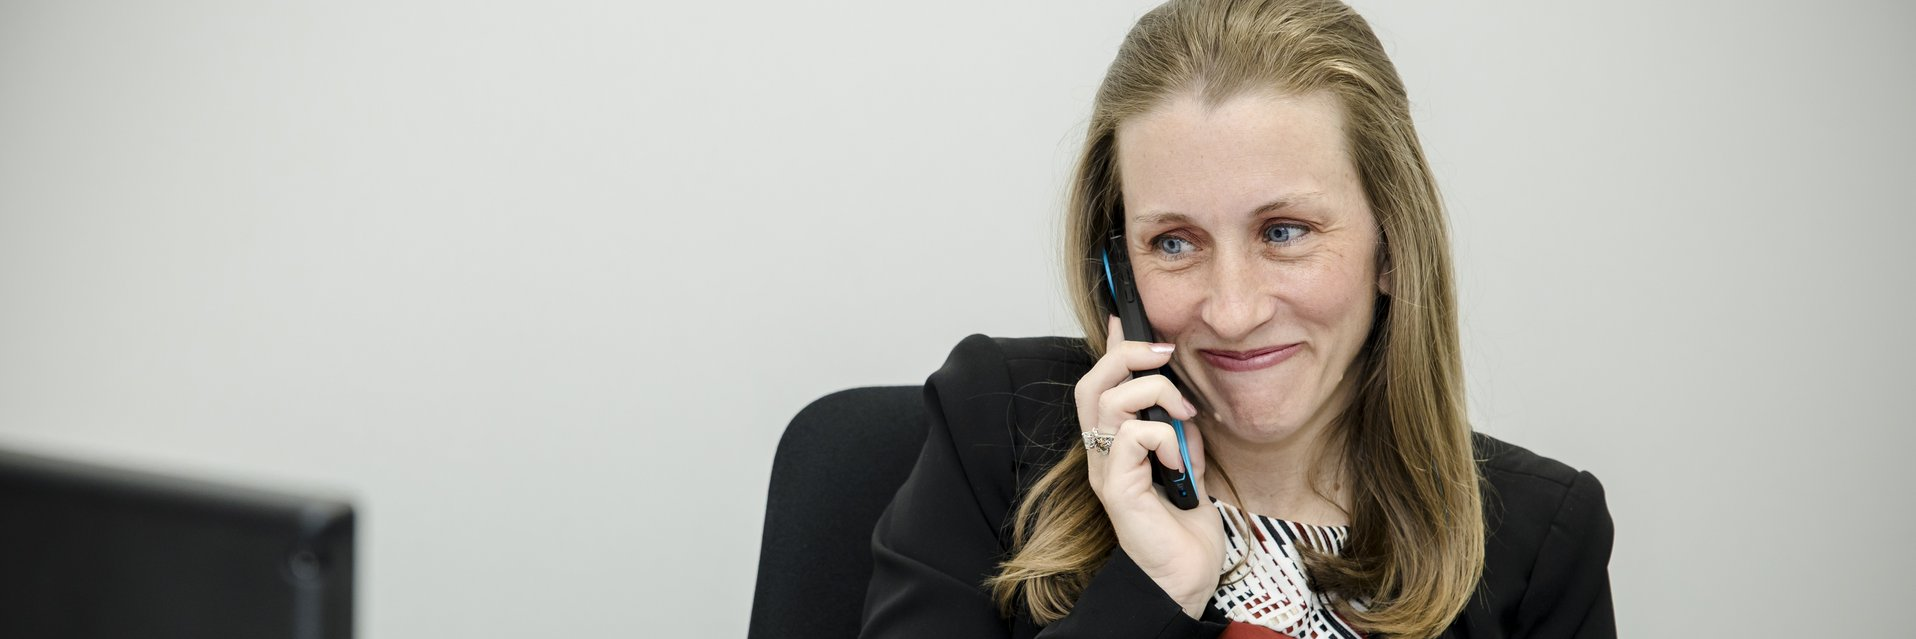
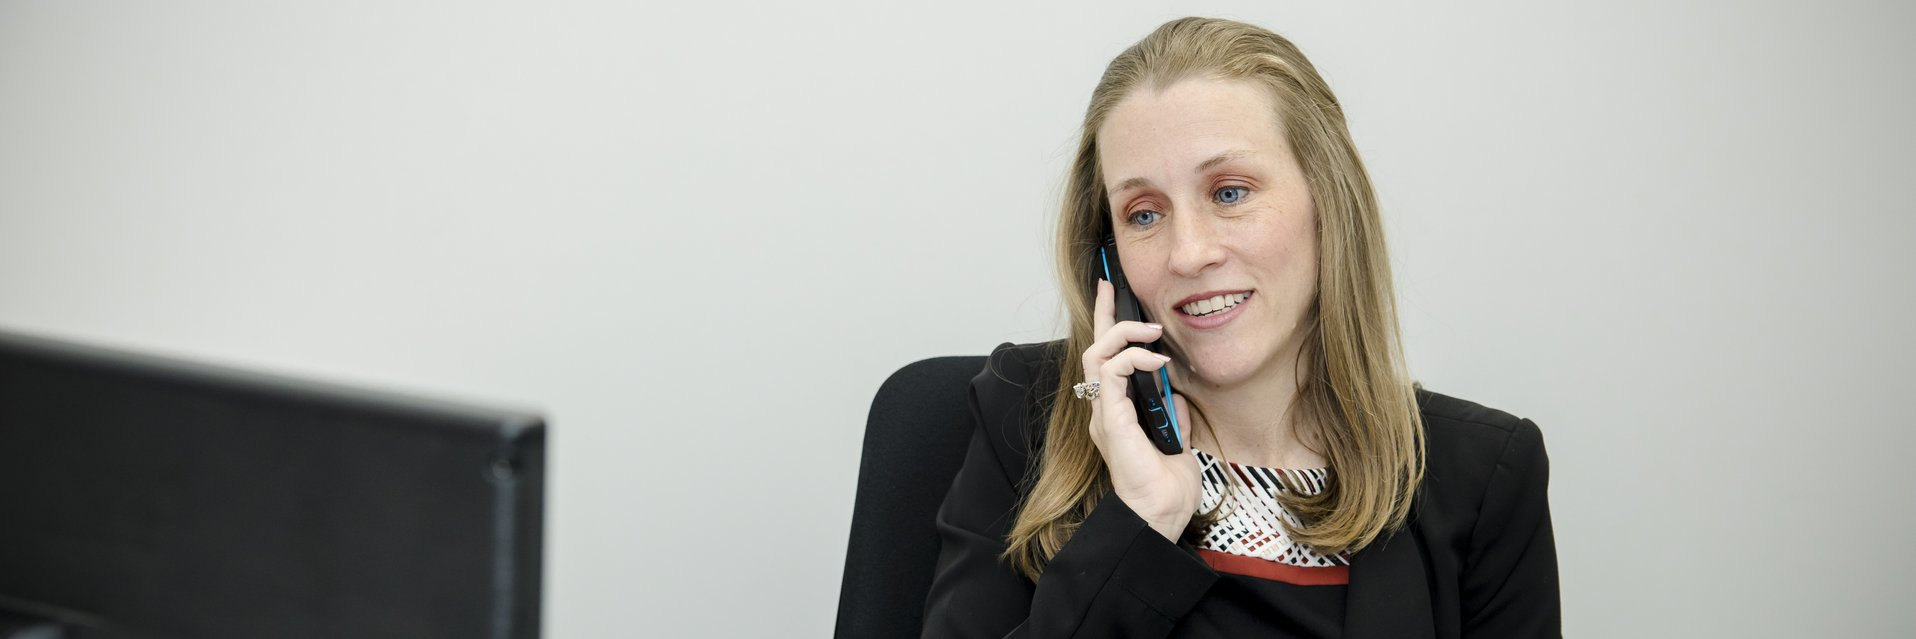
Homepage video: near-16:9 ratio anchored to top so faces stay visible; swap contact hero to RFP11833

Changed region(s): [[0.3695, 0.0, 0.8622, 1.0], [0.0, 0.5055, 0.3079, 1.0], [0.0, 0.9812, 0.0308, 1.0]]

diff --git a/assets/css/styles.css b/assets/css/styles.css
@@ -122,6 +122,9 @@ body.has-hero-overlay .site-header:not(.is-scrolled) .site-logo{filter:brightnes
 .why-card--j .why-rule{background:#0E7490}
 .why-card p{position:relative;margin:0;color:var(--text-muted);font-size:.96rem;line-height:1.62}
 /* === Video hero === */
+.hero-full--video{aspect-ratio:1.85/1;max-height:90vh}
+.hero-full--video .hero-full-img{object-position:center 18%}
+@media (max-width:700px){.hero-full--video{aspect-ratio:4/5}.hero-full--video .hero-full-img{object-position:center 12%}}
 .hero-full video.hero-full-img{object-position:center}
 .hero-full .btn-ghost{background:transparent;color:#fff;border-color:rgba(255,255,255,.65)}
 .hero-full .btn-ghost:hover{background:rgba(255,255,255,.12);border-color:#fff;color:#fff}

diff --git a/index.html b/index.html
@@ -158,7 +158,7 @@
   <main id="main">
 
     <!-- ══ Full-Width Video Hero ══════════════════════════ -->
-    <section class="hero-full hero-full--deep" aria-labelledby="hero-heading">
+    <section class="hero-full hero-full--deep hero-full--video" aria-labelledby="hero-heading">
       <img src="assets/img/hero/home-poster.jpg" class="hero-full-img" alt="" aria-hidden="true" loading="eager" fetchpriority="high" width="1916" height="1077">
       <video class="hero-full-img" autoplay muted loop playsinline preload="metadata" poster="assets/img/hero/home-poster.jpg" aria-label="A mom reviews her business finances while her kids make peanut butter and jelly sandwiches">
         <source src="assets/video/home-hero.mp4" type="video/mp4">